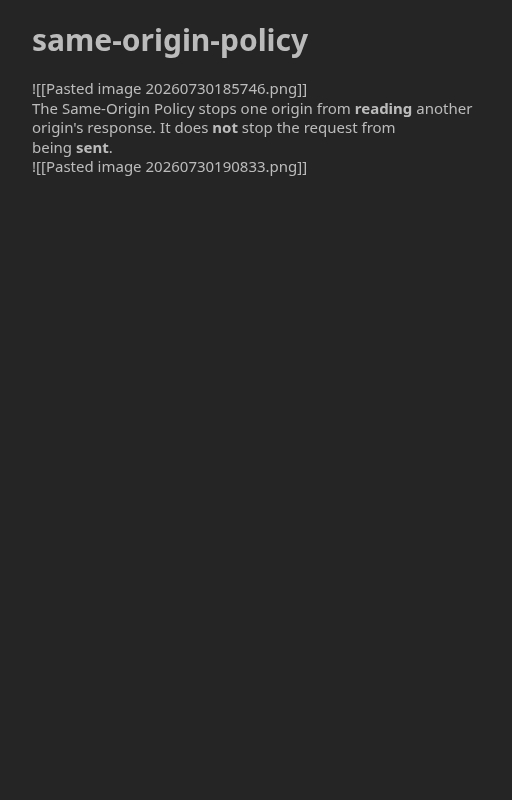
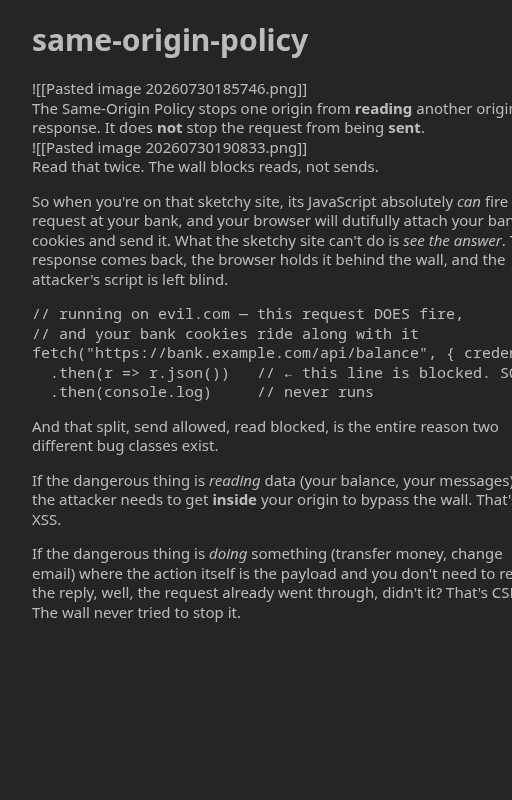
vault backup: 2026-07-30 19:23:01

diff --git a/wvp/Academy/JuniorWebPentester/Phase1/same-origin-policy.md b/wvp/Academy/JuniorWebPentester/Phase1/same-origin-policy.md
@@ -1,3 +1,22 @@
 ![[Pasted image 20260730185746.png]]
 The Same-Origin Policy stops one origin from **reading** another origin's response. It does **not** stop the request from being **sent**.
 ![[Pasted image 20260730190833.png]]
+Read that twice. The wall blocks reads, not sends.
+
+So when you're on that sketchy site, its JavaScript absolutely _can_ fire a request at your bank, and your browser will dutifully attach your bank cookies and send it. What the sketchy site can't do is _see the answer_. The response comes back, the browser holds it behind the wall, and the attacker's script is left blind.
+
+
+
+```js
+// running on evil.com — this request DOES fire,
+// and your bank cookies ride along with it
+fetch("https://bank.example.com/api/balance", { credentials: "include" })
+  .then(r => r.json())   // ← this line is blocked. SOP won't let evil.com read it.
+  .then(console.log)     // never runs
+```
+
+And that split, send allowed, read blocked, is the entire reason two different bug classes exist.
+
+If the dangerous thing is _reading_ data (your balance, your messages), the attacker needs to get **inside** your origin to bypass the wall. That's XSS.
+
+If the dangerous thing is _doing_ something (transfer money, change email) where the action itself is the payload and you don't need to read the reply, well, the request already went through, didn't it? That's CSRF. The wall never tried to stop it.
